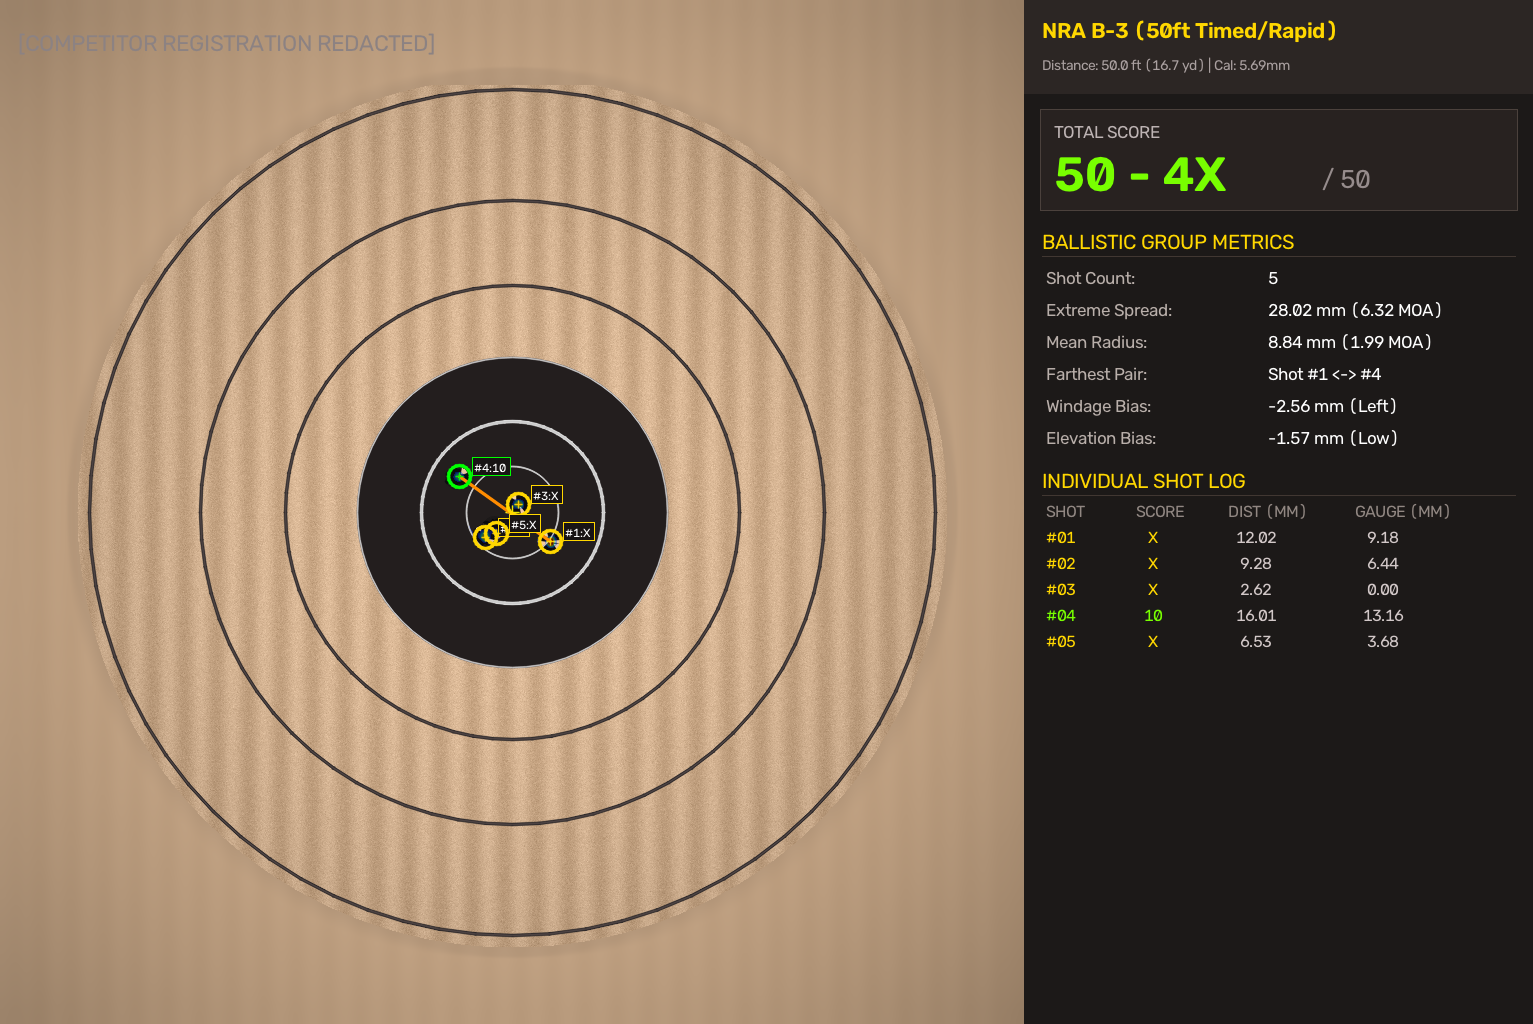
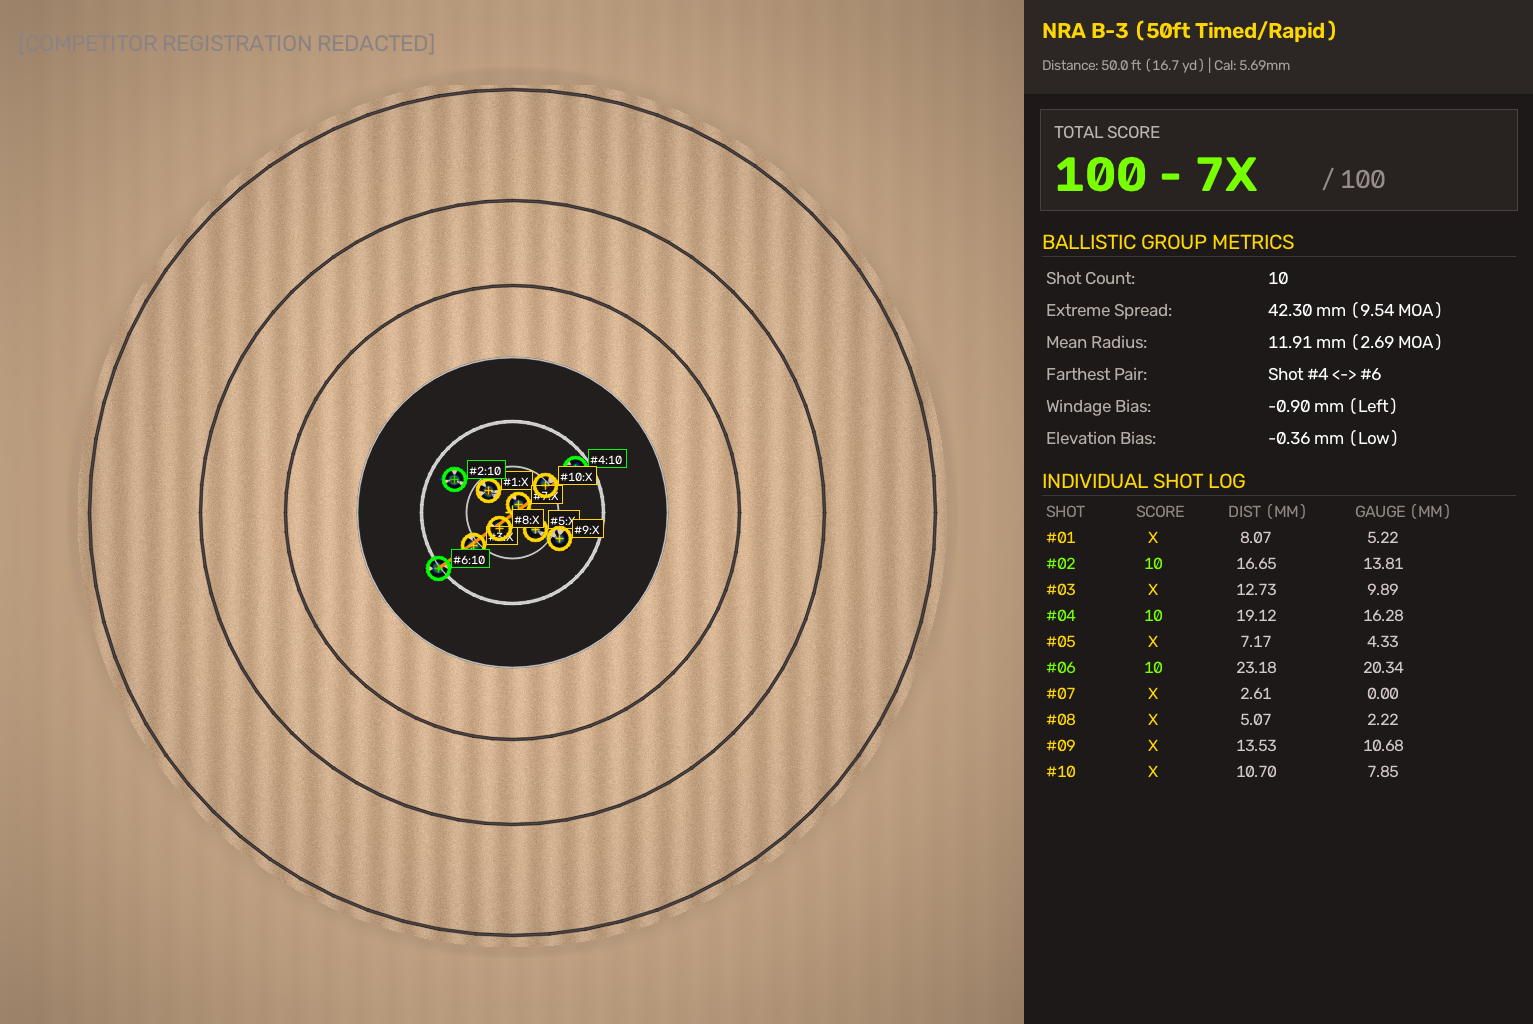
Evaluate full 10-shot competition strings and rename scorecards symmetrically to colab_scorecard_1024_b2

diff --git a/src/target_scorer/infer.py b/src/target_scorer/infer.py
@@ -50,14 +50,12 @@ def generate_synthetic_demo_target(
         img, center, _ = draw_standard_bullseye(img, cfg)
 
         cx, cy = center
-        scale_ratio = pixels_per_mm / 4.0
-        demo_shots = [
-            (cx + 6.0 * scale_ratio, cy - 8.0 * scale_ratio),
-            (cx - 18.0 * scale_ratio, cy + 16.0 * scale_ratio),
-            (cx - 28.0 * scale_ratio, cy + 24.0 * scale_ratio),
-            (cx + 38.0 * scale_ratio, cy + 30.0 * scale_ratio),
-            (cx - 55.0 * scale_ratio, cy - 35.0 * scale_ratio),
+        # 10 official competition shots with millimeter offsets calibrated across B-2 & B-3
+        demo_offsets_mm = [
+            (1.5, -2.0), (-3.0, 3.5), (5.5, 4.0), (-6.0, -5.0), (8.0, -6.5),
+            (-9.5, 8.0), (12.0, 7.0), (-14.5, -8.0), (16.0, -11.0), (-18.5, 14.0)
         ]
+        demo_shots = [(cx + dx * pixels_per_mm, cy + dy * pixels_per_mm) for dx, dy in demo_offsets_mm]
 
         for sx, sy in demo_shots:
             stamp_bullet_hole(img, (sx, sy), cfg, raggedness=1.0)
